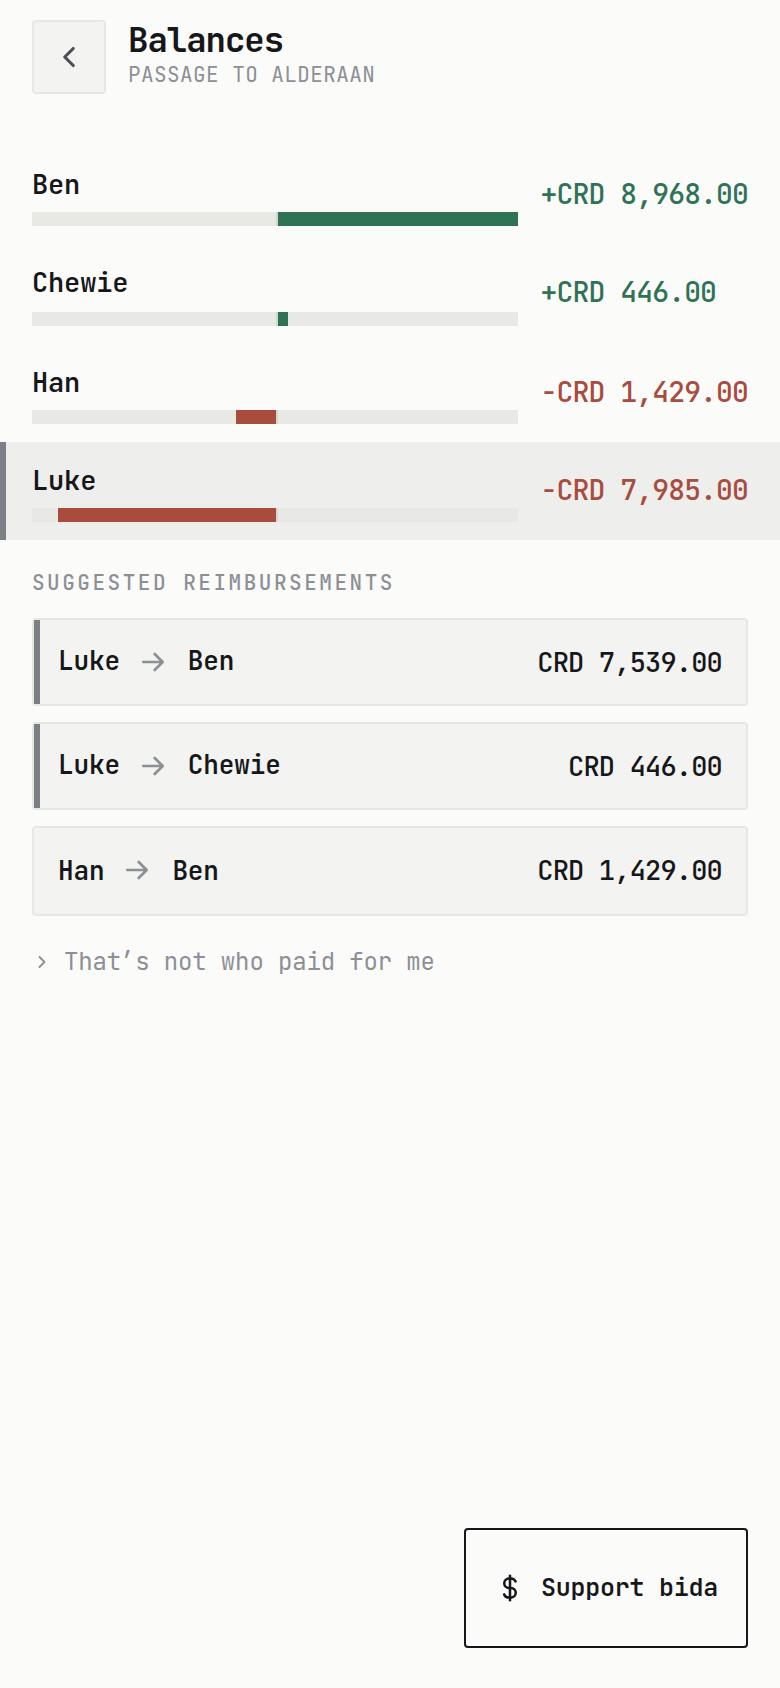
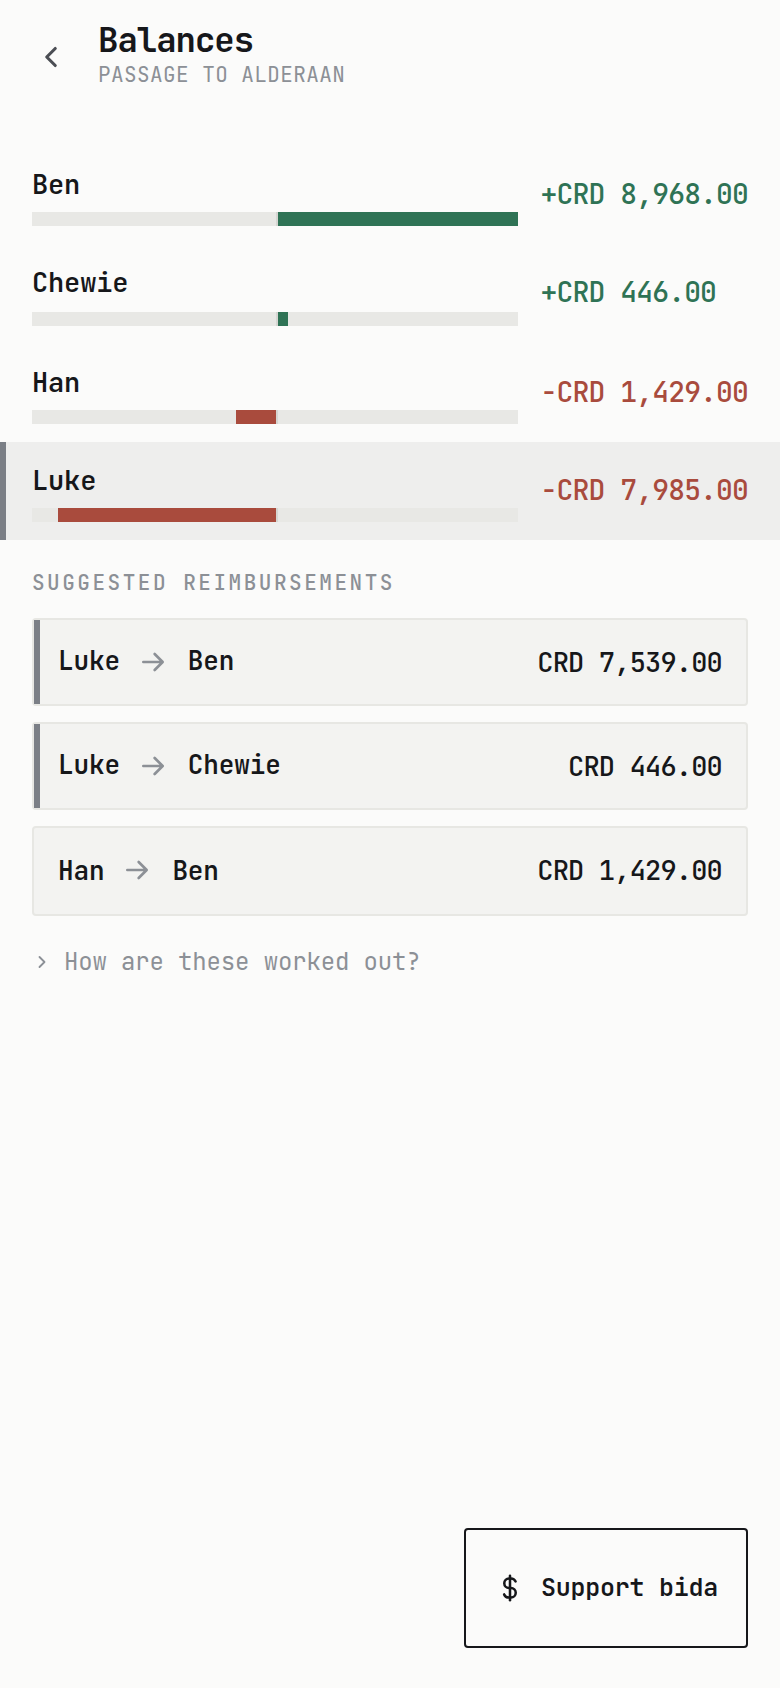
web: a bare back arrow on every screen
The arrow loses its box and border and moves onto the page's left edge; its
37px target stays. The keyless screen's drawing of the bar follows, and the
README's screenshots are retaken.

Claude-Session: https://claude.ai/code/session_018oviYzZvSY6RzMhRFyUb8x

Changed region(s): [[0.1231, 0.0, 0.4923, 0.0616], [0.0923, 0.5545, 0.4615, 0.5853], [0.4923, 0.5545, 0.5538, 0.5853]]

diff --git a/apps/web/app/globals.css b/apps/web/app/globals.css
@@ -379,6 +379,10 @@ a { color: inherit; text-decoration: none }
    way to reach People, History and the invite link, and they are pressed with a
    thumb reaching across the phone. Bigger circle, bigger glyph. */
 .topbar .iconbtn { width: 37px; height: 37px }
+/* The back arrow is on every screen and always means the same thing, so it
+   needs no box to say it can be pressed: a bare glyph, pulled out onto the
+   page's left edge, with the whole 37px square still the target. */
+.iconbtn.back { background: transparent; border-color: transparent; margin-inline: -9px -6px }
 .spacer { margin-left: auto }
 /* The build's number in the bar's far corner, `/about` only (app/about/page.tsx).
    Set like the bar's own subtitle — mono, muted, a step down — so it reads as a
@@ -1369,6 +1373,7 @@ dialog.scrim::backdrop { background: transparent }
   mask-image: linear-gradient(#000 78%, transparent) }
 .keyless-bar { display: flex; align-items: center; gap: 9px }
 .keyless-bar .iconbtn { width: 28px; height: 28px; background: var(--card) }
+.keyless-bar .iconbtn.back { background: transparent; margin-inline: -7px -4px }
 .keyless-name { flex: 1; min-width: 0; font-size: 14px; font-weight: 700; letter-spacing: -.02em; color: var(--ink) }
 .keyless-menu { position: static; animation: none; width: max-content; min-width: 190px;
   margin: 6px 0 0 auto; pointer-events: none }

diff --git a/apps/web/components/chrome.tsx b/apps/web/components/chrome.tsx
@@ -97,14 +97,14 @@ export function TopBar({ title, sub, back, mid, right }: {
   return (
     <div className="topbar">
       {back === true || guard ? (
-        <button className="iconbtn" onClick={press} aria-label={copy.act.back} {...keepsFocus}>
+        <button className="iconbtn back" onClick={press} aria-label={copy.act.back} {...keepsFocus}>
           <Icon name="back" size={17} />
         </button>
       ) : typeof back === "string" ? (
         /* A real anchor, but not a plain push: the arrow names a parent, and
            going up unwinds the history to it rather than stacking another
            entry on top (lib/nav.ts). */
-        <Link className="iconbtn" href={back} aria-label={copy.act.back}
+        <Link className="iconbtn back" href={back} aria-label={copy.act.back}
           onClick={(e) => { e.preventDefault(); run(); }} {...keepsFocus}>
           <Icon name="back" size={17} />
         </Link>

diff --git a/apps/web/components/keyless-link.tsx b/apps/web/components/keyless-link.tsx
@@ -67,7 +67,7 @@ export function KeylessLink() {
 
           <div className="keyless-fig" aria-hidden="true">
             <div className="keyless-bar">
-              <span className="iconbtn"><Icon name="back" size={15} /></span>
+              <span className="iconbtn back"><Icon name="back" size={15} /></span>
               <span className="keyless-name">{keyless.groupName}</span>
               <span className="iconbtn keyless-lit"><Icon name="more" size={16} /></span>
             </div>
